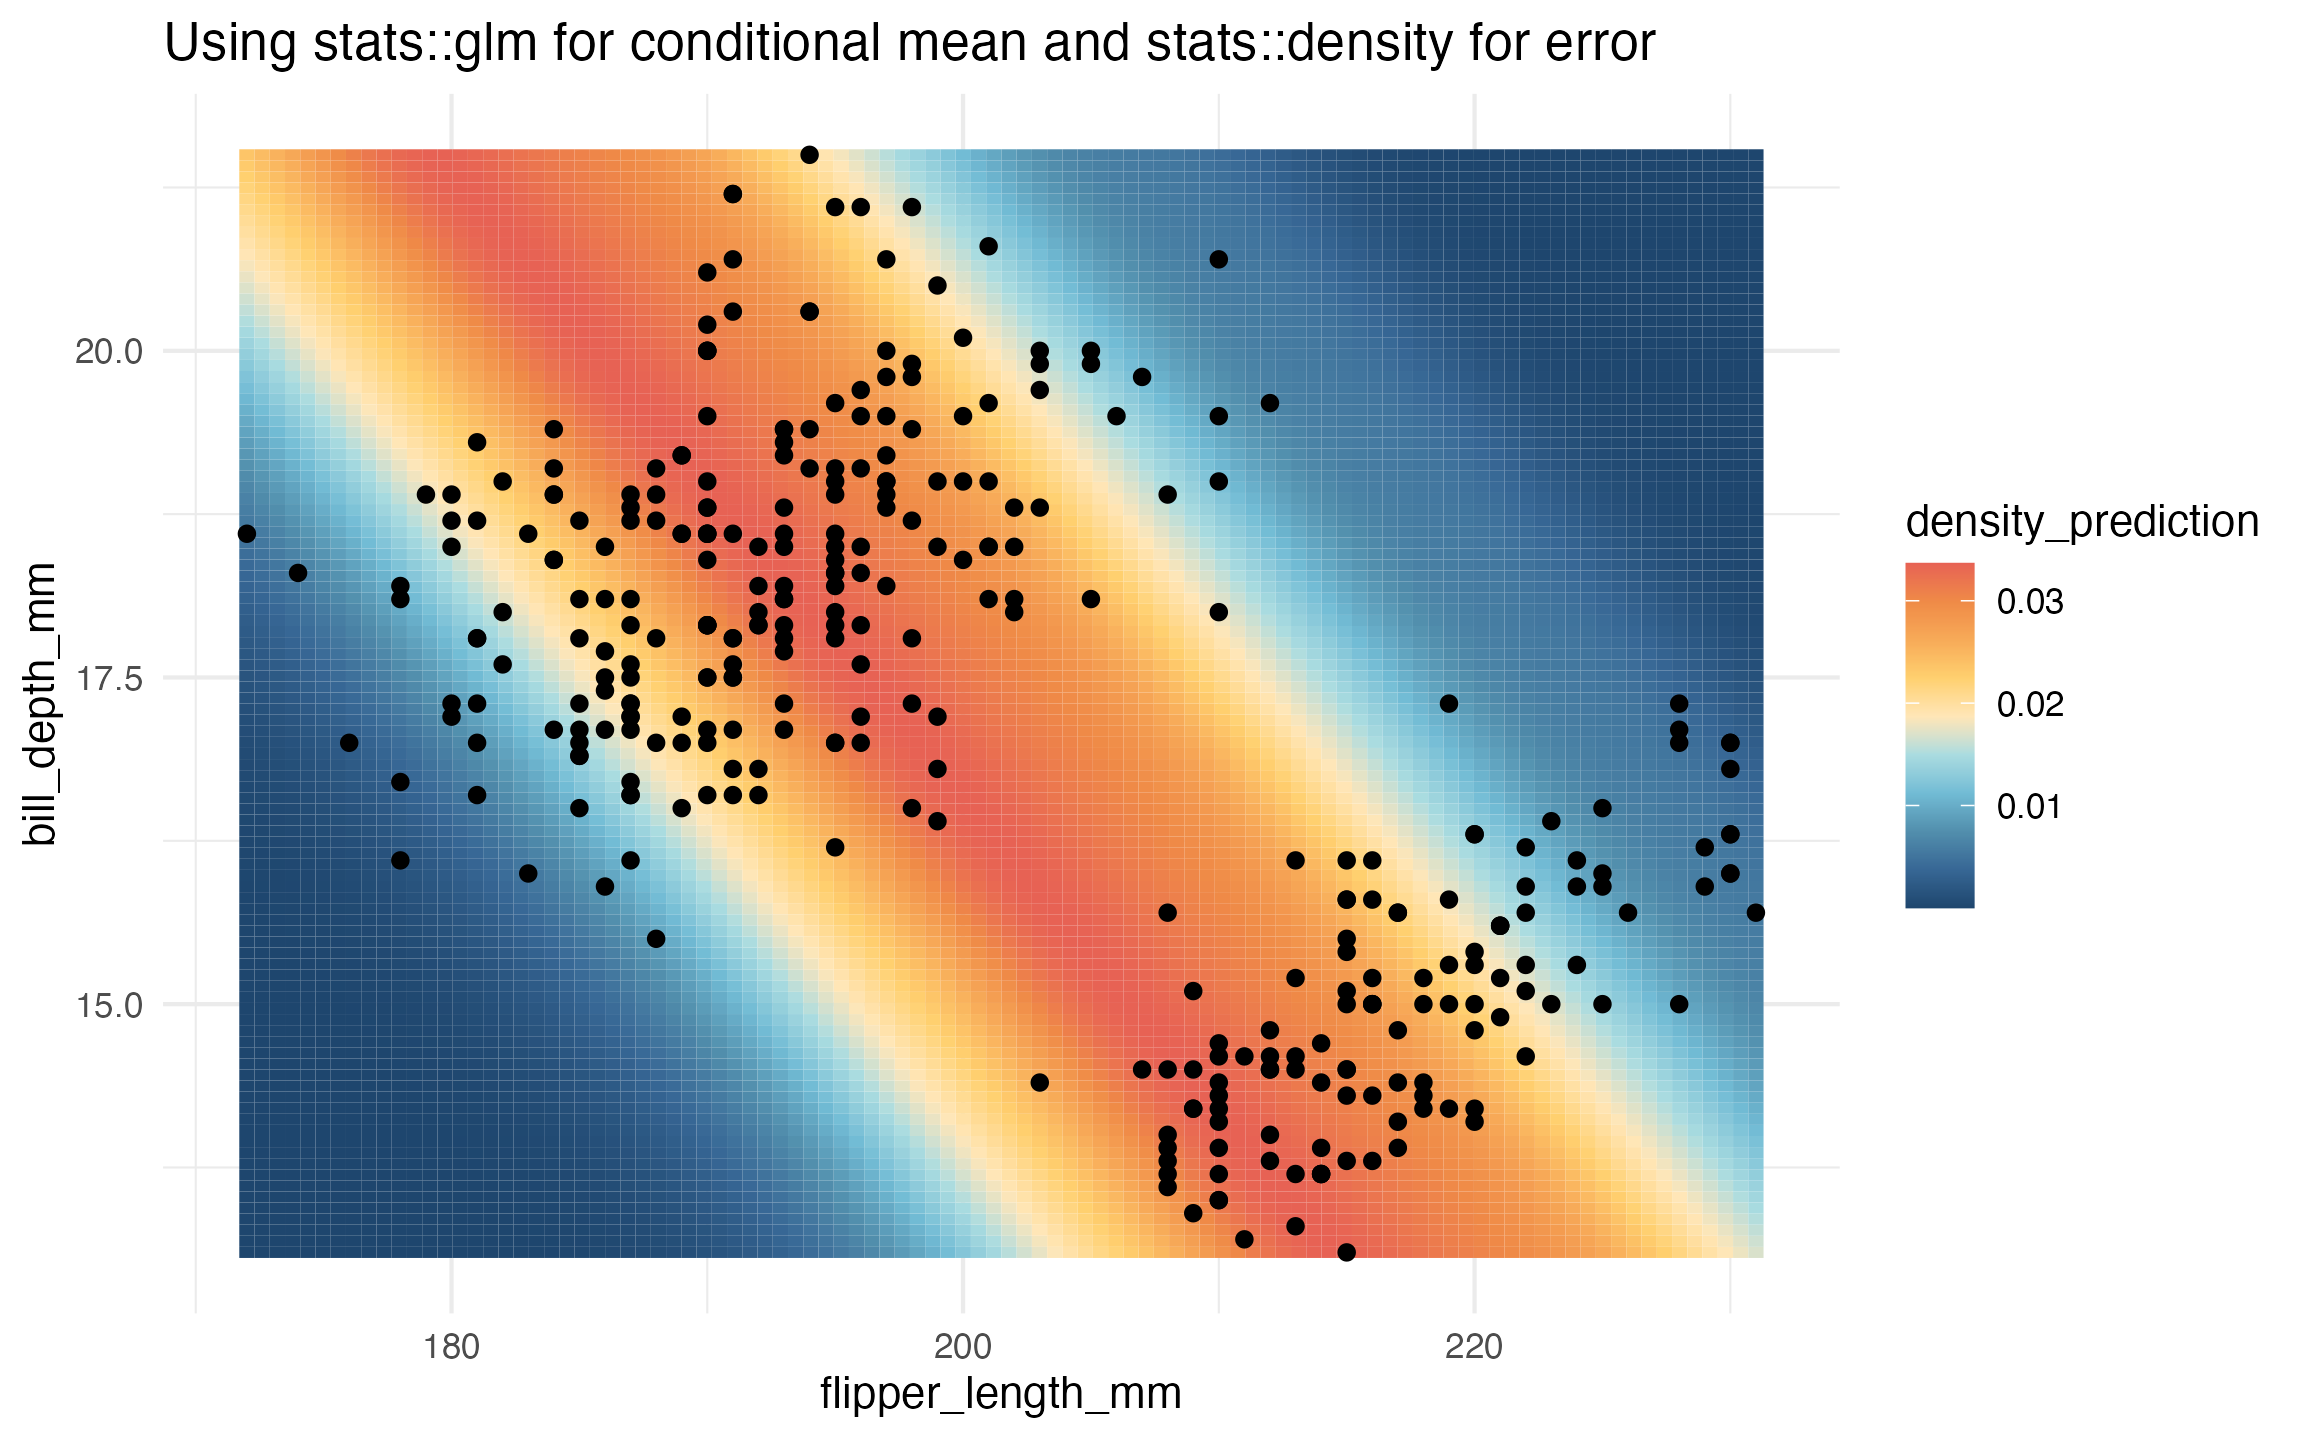
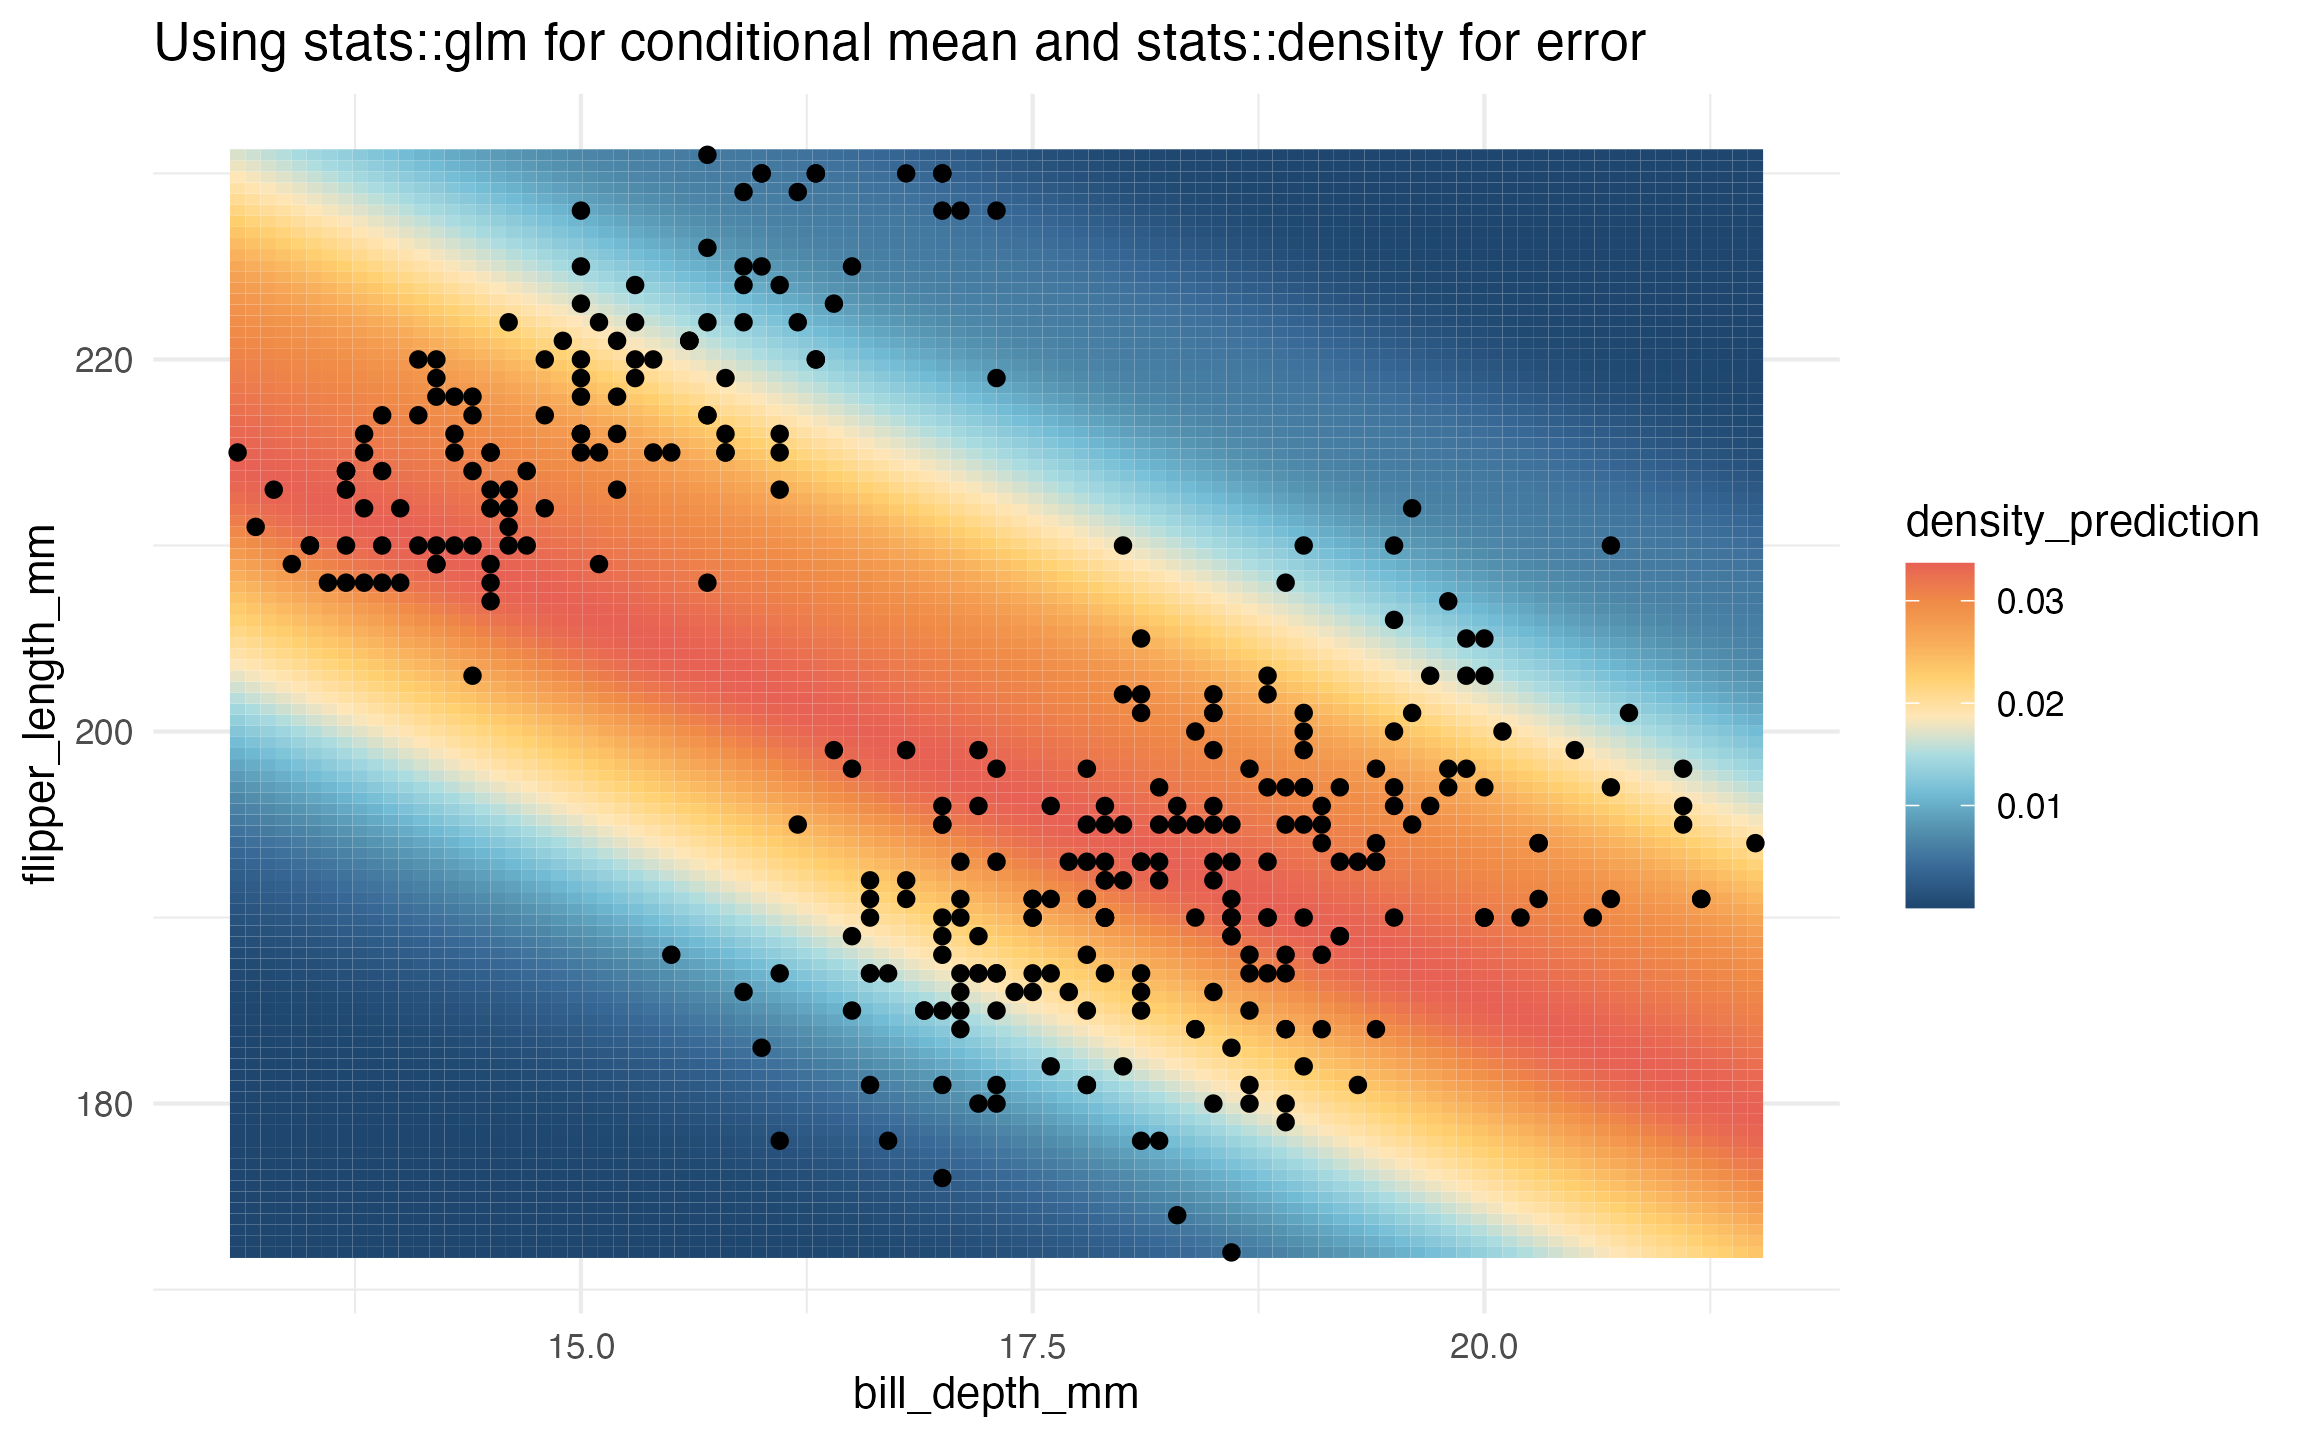
Fixing orientation of figures

diff --git a/docs/articles/Density-Estimation.html b/docs/articles/Density-Estimation.html
@@ -276,7 +276,7 @@ density models and visualize their predictions.</p>
 <span></span>
 <span><span class="va">prediction_grid</span><span class="op">$</span><span class="va">density_prediction</span> <span class="op">&lt;-</span> <span class="fu">learned_conditional_normal</span><span class="op">(</span><span class="va">prediction_grid</span><span class="op">)</span></span>
 <span></span>
-<span><span class="fu"><a href="https://ggplot2.tidyverse.org/reference/ggplot.html" class="external-link">ggplot</a></span><span class="op">(</span><span class="va">data</span>, <span class="fu"><a href="https://ggplot2.tidyverse.org/reference/aes.html" class="external-link">aes</a></span><span class="op">(</span>x <span class="op">=</span> <span class="va">flipper_length_mm</span>, y <span class="op">=</span> <span class="va">bill_depth_mm</span><span class="op">)</span><span class="op">)</span> <span class="op">+</span> </span>
+<span><span class="fu"><a href="https://ggplot2.tidyverse.org/reference/ggplot.html" class="external-link">ggplot</a></span><span class="op">(</span><span class="va">data</span>, <span class="fu"><a href="https://ggplot2.tidyverse.org/reference/aes.html" class="external-link">aes</a></span><span class="op">(</span>x <span class="op">=</span> <span class="va">bill_depth_mm</span>, y <span class="op">=</span> <span class="va">flipper_length_mm</span><span class="op">)</span><span class="op">)</span> <span class="op">+</span> </span>
 <span>  <span class="fu"><a href="https://ggplot2.tidyverse.org/reference/geom_tile.html" class="external-link">geom_tile</a></span><span class="op">(</span></span>
 <span>    data <span class="op">=</span> <span class="va">prediction_grid</span>, </span>
 <span>    mapping <span class="op">=</span> <span class="fu"><a href="https://ggplot2.tidyverse.org/reference/aes.html" class="external-link">aes</a></span><span class="op">(</span>fill <span class="op">=</span> <span class="va">density_prediction</span><span class="op">)</span><span class="op">)</span> <span class="op">+</span> </span>
@@ -294,7 +294,7 @@ density models and visualize their predictions.</p>
 <span></span>
 <span><span class="va">prediction_grid</span><span class="op">$</span><span class="va">density_prediction</span> <span class="op">&lt;-</span> <span class="fu">learned_earth_homoskedastic_density</span><span class="op">(</span><span class="va">prediction_grid</span><span class="op">)</span></span>
 <span></span>
-<span><span class="fu"><a href="https://ggplot2.tidyverse.org/reference/ggplot.html" class="external-link">ggplot</a></span><span class="op">(</span><span class="va">data</span>, <span class="fu"><a href="https://ggplot2.tidyverse.org/reference/aes.html" class="external-link">aes</a></span><span class="op">(</span>x <span class="op">=</span> <span class="va">flipper_length_mm</span>, y <span class="op">=</span> <span class="va">bill_depth_mm</span><span class="op">)</span><span class="op">)</span> <span class="op">+</span> </span>
+<span><span class="fu"><a href="https://ggplot2.tidyverse.org/reference/ggplot.html" class="external-link">ggplot</a></span><span class="op">(</span><span class="va">data</span>, <span class="fu"><a href="https://ggplot2.tidyverse.org/reference/aes.html" class="external-link">aes</a></span><span class="op">(</span>x <span class="op">=</span> <span class="va">bill_depth_mm</span>, y <span class="op">=</span> <span class="va">flipper_length_mm</span><span class="op">)</span><span class="op">)</span> <span class="op">+</span> </span>
 <span>  <span class="fu"><a href="https://ggplot2.tidyverse.org/reference/geom_tile.html" class="external-link">geom_tile</a></span><span class="op">(</span></span>
 <span>    data <span class="op">=</span> <span class="va">prediction_grid</span>, </span>
 <span>    mapping <span class="op">=</span> <span class="fu"><a href="https://ggplot2.tidyverse.org/reference/aes.html" class="external-link">aes</a></span><span class="op">(</span>fill <span class="op">=</span> <span class="va">density_prediction</span><span class="op">)</span><span class="op">)</span> <span class="op">+</span> </span>
@@ -312,7 +312,7 @@ density models and visualize their predictions.</p>
 <span></span>
 <span><span class="va">prediction_grid</span><span class="op">$</span><span class="va">density_prediction</span> <span class="op">&lt;-</span> <span class="fu">learned_rf_homoskedastic_density</span><span class="op">(</span><span class="va">prediction_grid</span><span class="op">)</span></span>
 <span></span>
-<span><span class="fu"><a href="https://ggplot2.tidyverse.org/reference/ggplot.html" class="external-link">ggplot</a></span><span class="op">(</span><span class="va">data</span>, <span class="fu"><a href="https://ggplot2.tidyverse.org/reference/aes.html" class="external-link">aes</a></span><span class="op">(</span>x <span class="op">=</span> <span class="va">flipper_length_mm</span>, y <span class="op">=</span> <span class="va">bill_depth_mm</span><span class="op">)</span><span class="op">)</span> <span class="op">+</span> </span>
+<span><span class="fu"><a href="https://ggplot2.tidyverse.org/reference/ggplot.html" class="external-link">ggplot</a></span><span class="op">(</span><span class="va">data</span>, <span class="fu"><a href="https://ggplot2.tidyverse.org/reference/aes.html" class="external-link">aes</a></span><span class="op">(</span>x <span class="op">=</span> <span class="va">bill_depth_mm</span>, y <span class="op">=</span> <span class="va">flipper_length_mm</span><span class="op">)</span><span class="op">)</span> <span class="op">+</span> </span>
 <span>  <span class="fu"><a href="https://ggplot2.tidyverse.org/reference/geom_tile.html" class="external-link">geom_tile</a></span><span class="op">(</span></span>
 <span>    data <span class="op">=</span> <span class="va">prediction_grid</span>, </span>
 <span>    mapping <span class="op">=</span> <span class="fu"><a href="https://ggplot2.tidyverse.org/reference/aes.html" class="external-link">aes</a></span><span class="op">(</span>fill <span class="op">=</span> <span class="va">density_prediction</span><span class="op">)</span><span class="op">)</span> <span class="op">+</span> </span>
@@ -330,7 +330,7 @@ density models and visualize their predictions.</p>
 <span></span>
 <span><span class="va">prediction_grid</span><span class="op">$</span><span class="va">density_prediction</span> <span class="op">&lt;-</span> <span class="fu">learned_ranger_homoskedastic_density</span><span class="op">(</span><span class="va">prediction_grid</span><span class="op">)</span></span>
 <span></span>
-<span><span class="fu"><a href="https://ggplot2.tidyverse.org/reference/ggplot.html" class="external-link">ggplot</a></span><span class="op">(</span><span class="va">data</span>, <span class="fu"><a href="https://ggplot2.tidyverse.org/reference/aes.html" class="external-link">aes</a></span><span class="op">(</span>x <span class="op">=</span> <span class="va">flipper_length_mm</span>, y <span class="op">=</span> <span class="va">bill_depth_mm</span><span class="op">)</span><span class="op">)</span> <span class="op">+</span> </span>
+<span><span class="fu"><a href="https://ggplot2.tidyverse.org/reference/ggplot.html" class="external-link">ggplot</a></span><span class="op">(</span><span class="va">data</span>, <span class="fu"><a href="https://ggplot2.tidyverse.org/reference/aes.html" class="external-link">aes</a></span><span class="op">(</span>x <span class="op">=</span> <span class="va">bill_depth_mm</span>, y <span class="op">=</span> <span class="va">flipper_length_mm</span><span class="op">)</span><span class="op">)</span> <span class="op">+</span> </span>
 <span>  <span class="fu"><a href="https://ggplot2.tidyverse.org/reference/geom_tile.html" class="external-link">geom_tile</a></span><span class="op">(</span></span>
 <span>    data <span class="op">=</span> <span class="va">prediction_grid</span>, </span>
 <span>    mapping <span class="op">=</span> <span class="fu"><a href="https://ggplot2.tidyverse.org/reference/aes.html" class="external-link">aes</a></span><span class="op">(</span>fill <span class="op">=</span> <span class="va">density_prediction</span><span class="op">)</span><span class="op">)</span> <span class="op">+</span> </span>
@@ -348,7 +348,7 @@ density models and visualize their predictions.</p>
 <span></span>
 <span><span class="va">prediction_grid</span><span class="op">$</span><span class="va">density_prediction</span> <span class="op">&lt;-</span> <span class="fu">learned_glm_homoskedastic_density</span><span class="op">(</span><span class="va">prediction_grid</span><span class="op">)</span></span>
 <span></span>
-<span><span class="fu"><a href="https://ggplot2.tidyverse.org/reference/ggplot.html" class="external-link">ggplot</a></span><span class="op">(</span><span class="va">data</span>, <span class="fu"><a href="https://ggplot2.tidyverse.org/reference/aes.html" class="external-link">aes</a></span><span class="op">(</span>x <span class="op">=</span> <span class="va">flipper_length_mm</span>, y <span class="op">=</span> <span class="va">bill_depth_mm</span><span class="op">)</span><span class="op">)</span> <span class="op">+</span> </span>
+<span><span class="fu"><a href="https://ggplot2.tidyverse.org/reference/ggplot.html" class="external-link">ggplot</a></span><span class="op">(</span><span class="va">data</span>, <span class="fu"><a href="https://ggplot2.tidyverse.org/reference/aes.html" class="external-link">aes</a></span><span class="op">(</span>x <span class="op">=</span> <span class="va">bill_depth_mm</span>, y <span class="op">=</span> <span class="va">flipper_length_mm</span><span class="op">)</span><span class="op">)</span> <span class="op">+</span> </span>
 <span>  <span class="fu"><a href="https://ggplot2.tidyverse.org/reference/geom_tile.html" class="external-link">geom_tile</a></span><span class="op">(</span></span>
 <span>    data <span class="op">=</span> <span class="va">prediction_grid</span>, </span>
 <span>    mapping <span class="op">=</span> <span class="fu"><a href="https://ggplot2.tidyverse.org/reference/aes.html" class="external-link">aes</a></span><span class="op">(</span>fill <span class="op">=</span> <span class="va">density_prediction</span><span class="op">)</span><span class="op">)</span> <span class="op">+</span> </span>
@@ -370,7 +370,7 @@ density models and visualize their predictions.</p>
 <span></span>
 <span><span class="va">prediction_grid</span><span class="op">$</span><span class="va">density_prediction</span> <span class="op">&lt;-</span> <span class="fu">learned_earth_heteroskedastic_density</span><span class="op">(</span><span class="va">prediction_grid</span><span class="op">)</span></span>
 <span></span>
-<span><span class="fu"><a href="https://ggplot2.tidyverse.org/reference/ggplot.html" class="external-link">ggplot</a></span><span class="op">(</span><span class="va">data</span>, <span class="fu"><a href="https://ggplot2.tidyverse.org/reference/aes.html" class="external-link">aes</a></span><span class="op">(</span>x <span class="op">=</span> <span class="va">flipper_length_mm</span>, y <span class="op">=</span> <span class="va">bill_depth_mm</span><span class="op">)</span><span class="op">)</span> <span class="op">+</span> </span>
+<span><span class="fu"><a href="https://ggplot2.tidyverse.org/reference/ggplot.html" class="external-link">ggplot</a></span><span class="op">(</span><span class="va">data</span>, <span class="fu"><a href="https://ggplot2.tidyverse.org/reference/aes.html" class="external-link">aes</a></span><span class="op">(</span>x <span class="op">=</span> <span class="va">bill_depth_mm</span>, y <span class="op">=</span> <span class="va">flipper_length_mm</span><span class="op">)</span><span class="op">)</span> <span class="op">+</span> </span>
 <span>  <span class="fu"><a href="https://ggplot2.tidyverse.org/reference/geom_tile.html" class="external-link">geom_tile</a></span><span class="op">(</span></span>
 <span>    data <span class="op">=</span> <span class="va">prediction_grid</span>, </span>
 <span>    mapping <span class="op">=</span> <span class="fu"><a href="https://ggplot2.tidyverse.org/reference/aes.html" class="external-link">aes</a></span><span class="op">(</span>fill <span class="op">=</span> <span class="va">density_prediction</span><span class="op">)</span><span class="op">)</span> <span class="op">+</span> </span>
